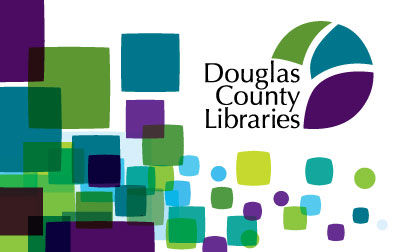
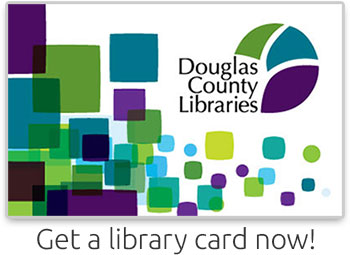
linking library card

diff --git a/library-perks/index.html b/library-perks/index.html
@@ -117,12 +117,10 @@ e.async=true;var t=document.getElementsByTagName("script")[0];t.parentNode.inser
 	min-height: 395px;
 }
 .library-card {
-	border: 3px solid #999;
-	border-radius: 10px;
-	transform: rotate(-15deg);
-	-webkit-transform: rotate(-15deg);
+
+	transform: rotate(-10deg);
+	-webkit-transform: rotate(-10deg);
 	z-index: -1;
-	box-shadow: 1px 5px 8px 1px rgba(0,0,0,.2);
 }
 .come-in {
 	transform: translateY(250px);
@@ -457,13 +455,13 @@ e.async=true;var t=document.getElementsByTagName("script")[0];t.parentNode.inser
       </div>
     </div>
   </div>
-  <div class="row padding-top-60 padding-bottom-80">
+  <div class="row padding-top-60 padding-bottom-60">
     <div class="container">
       <div id="check-out-colorado" class="col-md-4 bg-white">
         <h3> <a href="https://dcl.bibliocommons.com/item/show/1350439114">Check Out Colorado</a> </h3>
         <div>A limited number of backpacks containing a pass good for admission to any Colorado State Park are available for checkout from our welcome desks.</div>
       </div>
-      <div class="col-md-4 padding-right-30 padding-left-30 module come-in-card"><img class="img-responsive image-center library-card" src="library-card-one.jpg" alt="DCL Library Card"></div>
+      <div class="col-md-4 padding-right-30 padding-left-30 module come-in-card"><a href="http://getacard.org/v2/index.html" target="_blank"><img class="img-responsive image-center library-card" src="library-card-one.png" alt="DCL Library Card"></a></div>
       <div class="col-md-4 bg-white">
         <h3><a href="http://www.eventkeeper.com/code/events.cfm?curOrg=dclibs&curapp=passes" target="_blank">Adventure Pass</a> & <a href="../dcl-local/">DCL Local</a></h3>
         <div>Our partnerships with <a href="../dcl-local/#adventure-pass">area cultural institutions</a> let you reserve free passes up to 30 days in advance. Plus, enjoy DCL Local: Use your library card for discounts at <a href="../dcl-local/">participating businesses</a>!</div>
